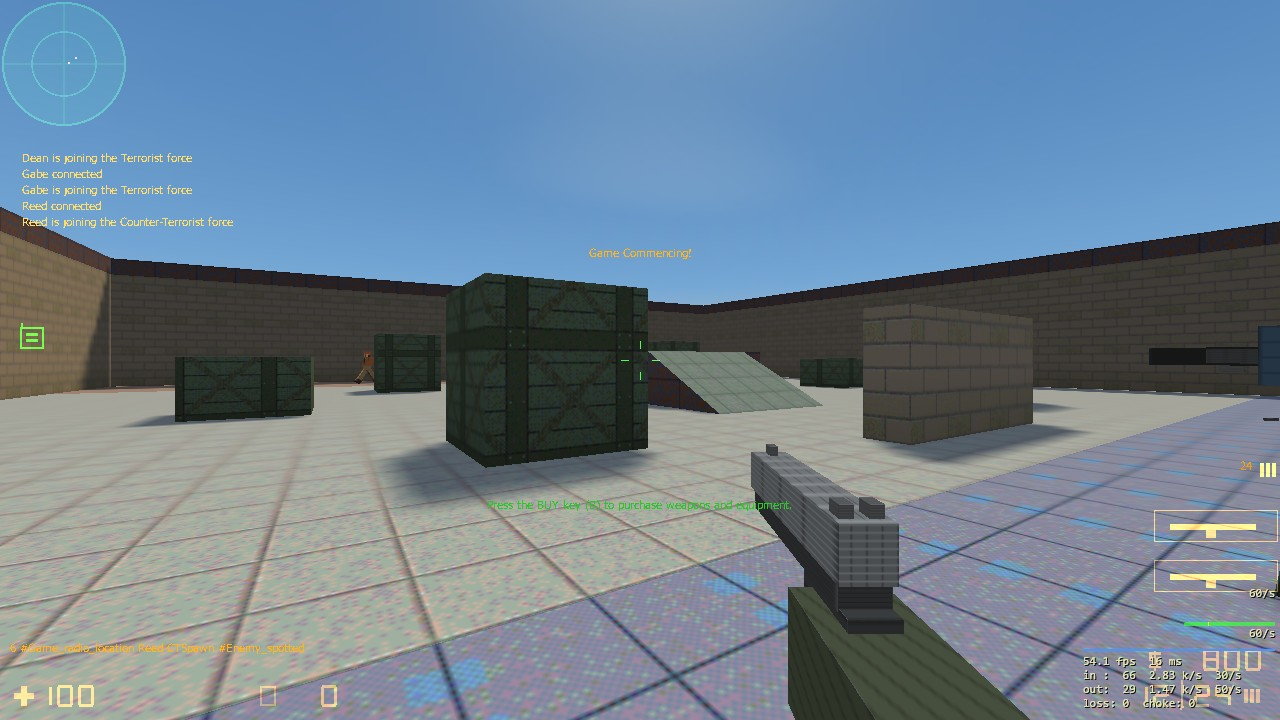
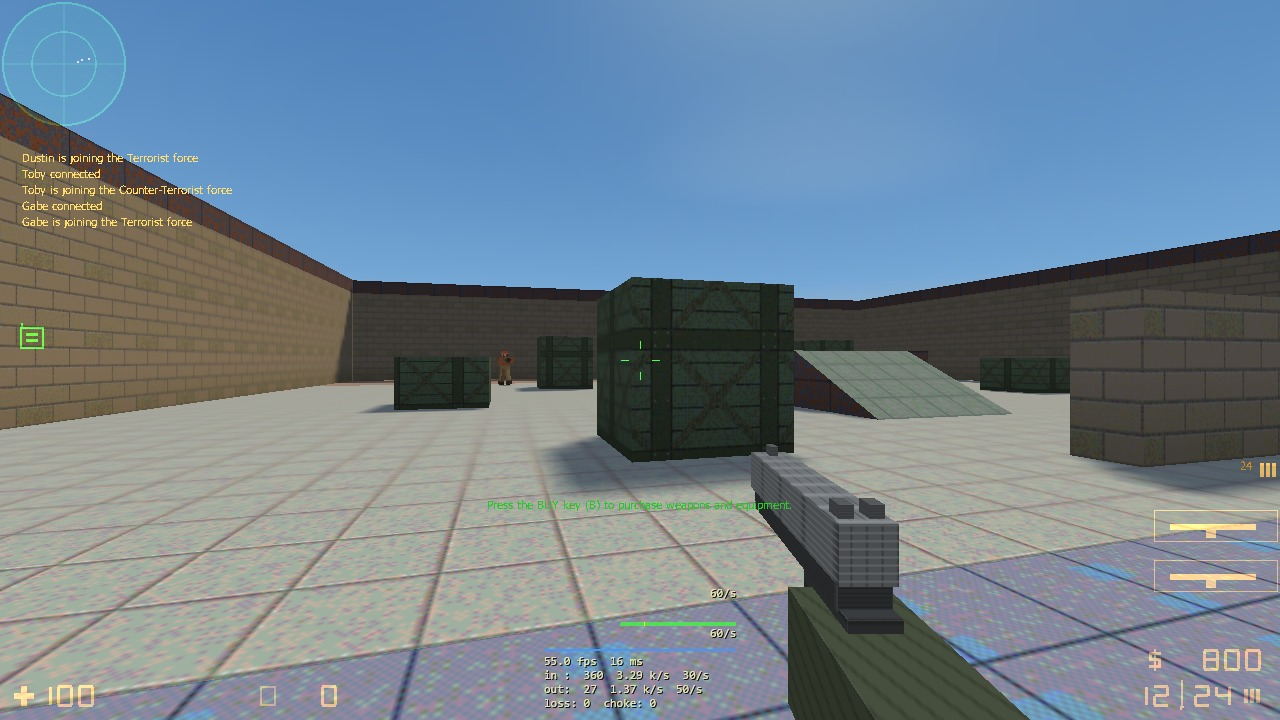
chore(release,assets): bump workspace to v0.3.0 and upgrade showcase to 800x450 animated WebP

diff --git a/README.md b/README.md
@@ -26,9 +26,9 @@
 ## Screenshots & Footage
 
 <div align="center">
-  <img src=".github/assets/gameplay-preview.gif" alt="cs16-rs real-time Vulkan gameplay preview on de_dust2 with AK-47, ZBots, classic GoldSrc HUD, and net_graph 1" width="100%">
+  <img src=".github/assets/gameplay-preview.webp" alt="cs16-rs real-time Vulkan gameplay preview on de_dust2 with AK-47, ZBots, classic GoldSrc HUD, and net_graph 1" width="100%">
   <br>
-  <sub><i>Live <code>--release</code> LTO <code>wgpu</code> Vulkan capture on <code>de_dust2</code> — active ZBots, AK-47 viewmodel &amp; recoil, authentic GoldSrc HUD sprites, radar, and <code>net_graph 1</code>.</i></sub>
+  <sub><i>Live 800×450 22 FPS <code>--release</code> LTO <code>wgpu</code> Vulkan capture on <code>de_dust2</code> — active ZBots, AK-47 viewmodel &amp; recoil, authentic GoldSrc HUD sprites, radar, and <code>net_graph 1</code>.</i></sub>
 </div>
 
 <br>
@@ -326,7 +326,7 @@ flowchart TD
 Tracked honestly across 15 TOML ledgers via `cargo run -p xtask -- parity`:
 
 - **Implemented:** **`100.0%`** (`1,783 / 1,783` tracked items across bots, cvars, delta, engine, entities, mods, movement, render, sound, tempents, ui, usermsg, weapons, web, wire — **`0` missing items**).
-- **Automated Test Coverage:** **`96.6%`** (`2,200+` passing workspace tests, zero warnings across `clippy --workspace --all-targets -- -D warnings`, full `wasm32-unknown-unknown` clean check).
+- **Automated Test Coverage:** **`96.6%`** (`2,167` passing workspace tests, zero warnings across `clippy --workspace --all-targets -- -D warnings`, full `wasm32-unknown-unknown` `-D warnings` clean check).
 - **Live Steam Build 10210 `hlds.exe` Differential Verification:** Verified `cs_office` (`218/218` edicts), `de_dust2` (`51/51` edicts, C4 plant/drop), `as_oilrig` (VIP), 25-map baseline audit (`24/25` exact), 65 s `cs-pm` movement trace (`0.00446 u` mean error), live head-to-head `hlds.exe` Build 10210 startup/RAM/tick/interop audit, and headless `--release` LTO `de_dust2` RGB visual parity (`(-0.4, -0.8, +0.0)` vs retail `(113, 96, 65) +/- 4`). Manual owner live-play sign-off checklists live in [`docs/parity/checklists/`](docs/parity/checklists/).
 
 ```bash

diff --git a/CHANGELOG.md b/CHANGELOG.md
@@ -23,7 +23,7 @@ Milestone release reaching **`100.0%` Parity Ledger completion** (`1,783 / 1,783
   - Added `cs16_wasm_host_bridge!` and `cs16_wasm_exports!` macros in `cs-mod-sdk` and migrated all shipped Rust showcase mods (`std_admin`, `std_statsx`, `csdm`, `gungame`, `zombie_plague`) plus `README.md` / `docs/MODDING.md` snippets and compile-tested them under `#![forbid(unsafe_code)]`.
   - Pruned stale worktrees and removed 29 merged leftover `worktree-agent-*` local branches.
 - **Headless Gameplay Recording & Showcase Upgrade:**
-  - Added `--record-dir <dir> --record-frames <N> --record-fps <fps>` deterministic fixed-step headless capture to `cs-client`, recorded the animated `de_dust2` gameplay preview (`.github/assets/gameplay-preview.gif`, `3.44 MiB`) and clean-room `dm_rusthouse` Instant Demo showcase (`.github/assets/shot-instant-demo.jpg`), and upgraded `xtask visual-diff` to automatically target `target/release/` when compiled in release mode.
+  - Added `--record-dir <dir> --record-frames <N> --record-fps <fps>` deterministic fixed-step headless capture to `cs-client`, recorded the animated `de_dust2` gameplay preview (`.github/assets/gameplay-preview.webp`, `800x450` @ `22 FPS`, `3.37 MiB`) and clean-room `dm_rusthouse` Instant Demo showcase (`.github/assets/shot-instant-demo.jpg`), and upgraded `xtask visual-diff` to automatically target `target/release/` when compiled in release mode.
 
 ### Benchmarks (`--release` LTO vs `dev` vs Retail Steam `hlds.exe` Build 10210)
 
